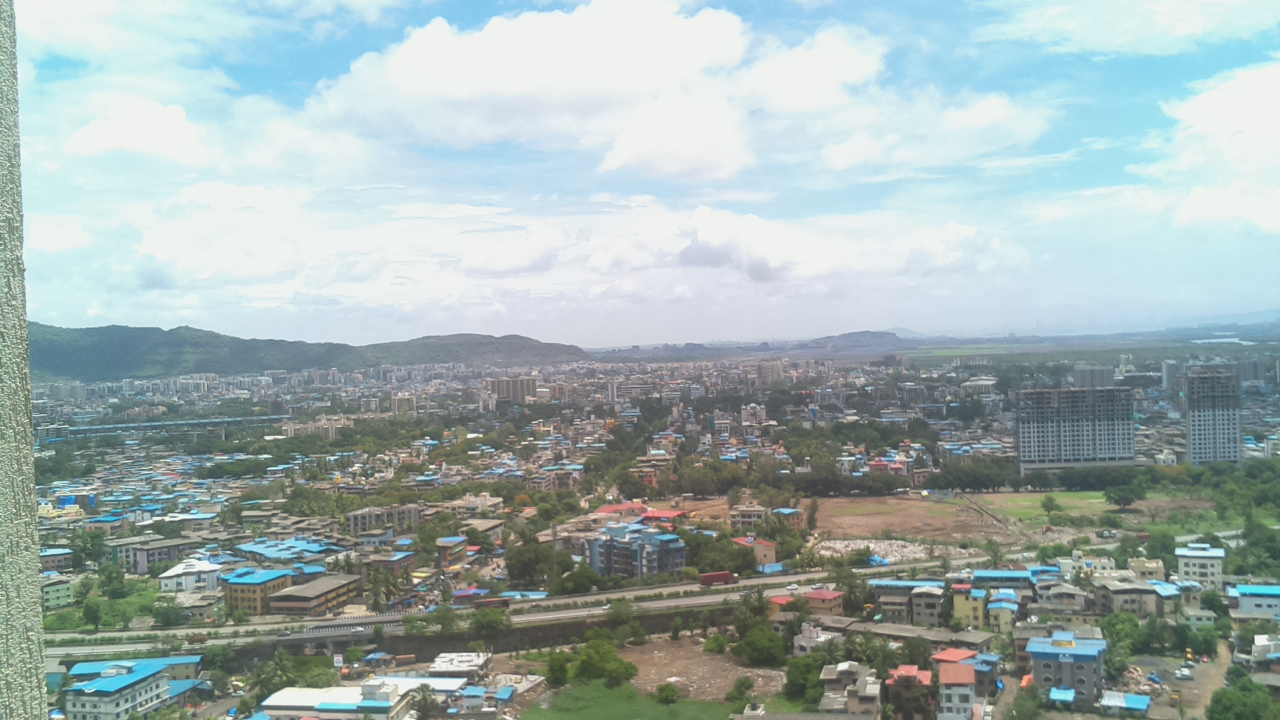
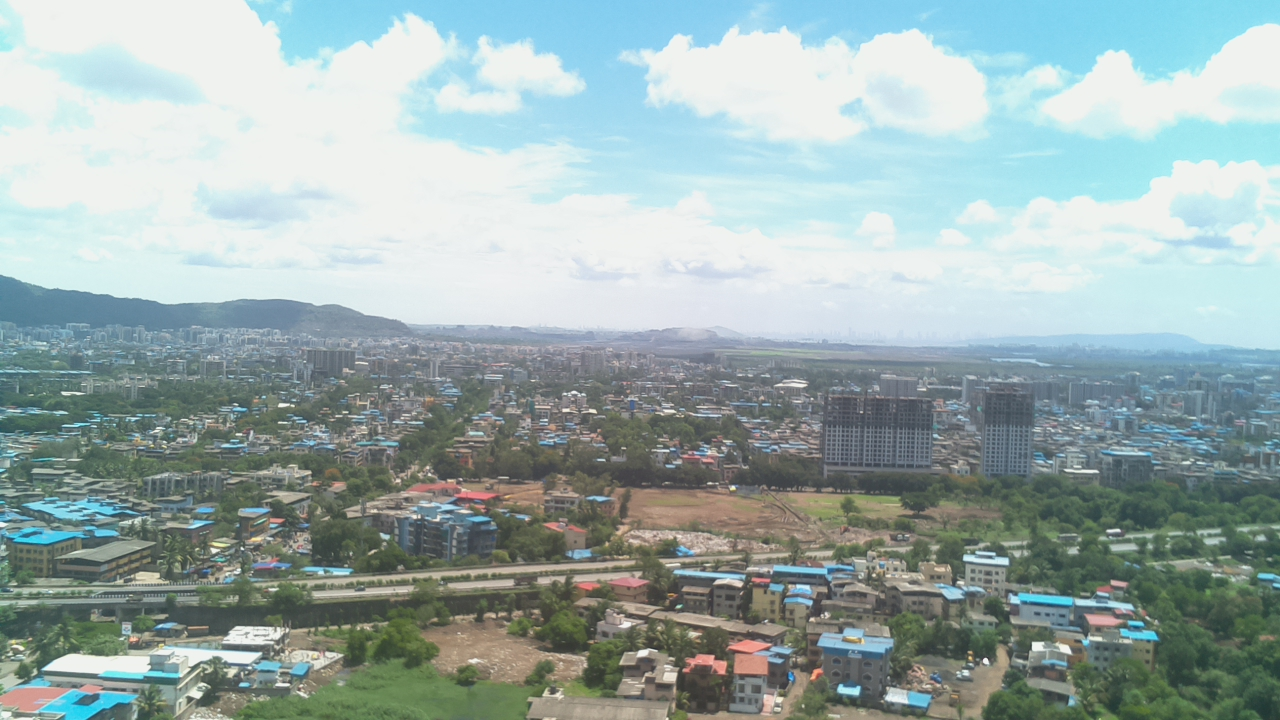
Image update

diff --git a/src/index.html b/src/index.html
@@ -13,7 +13,7 @@
 <center><h2><p style="color:blue;">Rajesh Tota's Cloud based Serverless Website</p></h2></center>
 <center><p style="color:red;">Project: Alexa => Raspberry Pi + Camera => Azure Cloud Static_Web_App</p>
 <center><p>
-This image was taken on 25.06.2022 - 13:30 IST
+This image was taken on 25.06.2022 - 13:58 IST
 </p>
 <script>
 document.getElementById("date-time").innerHTML = formatAMPM();
